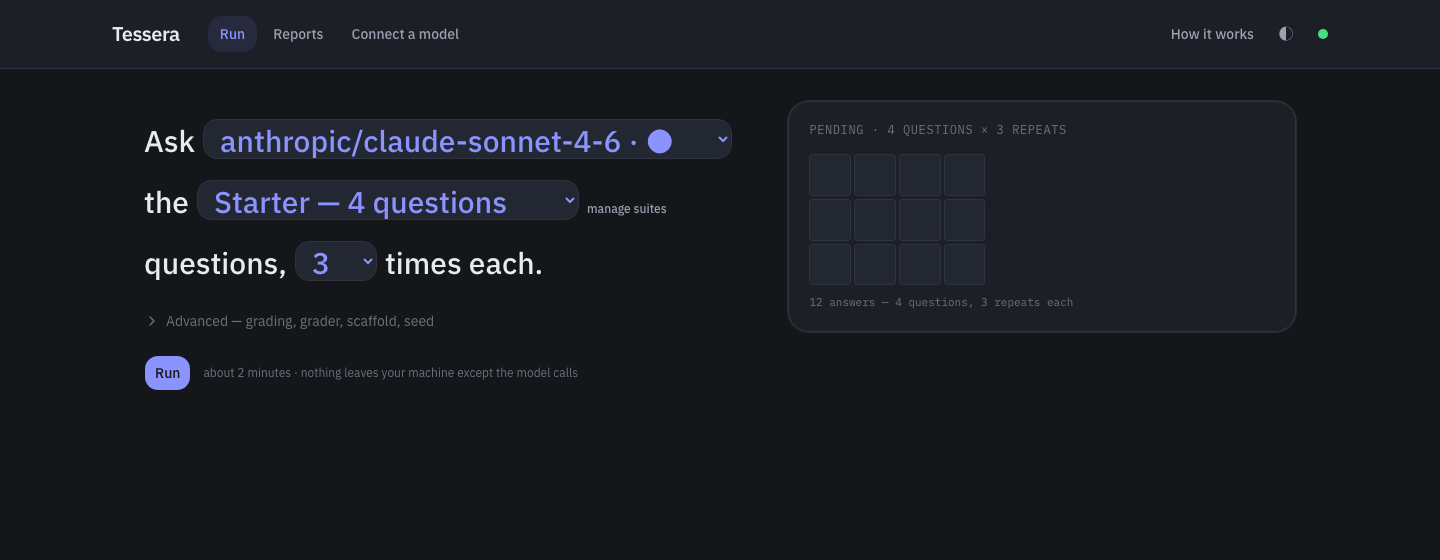
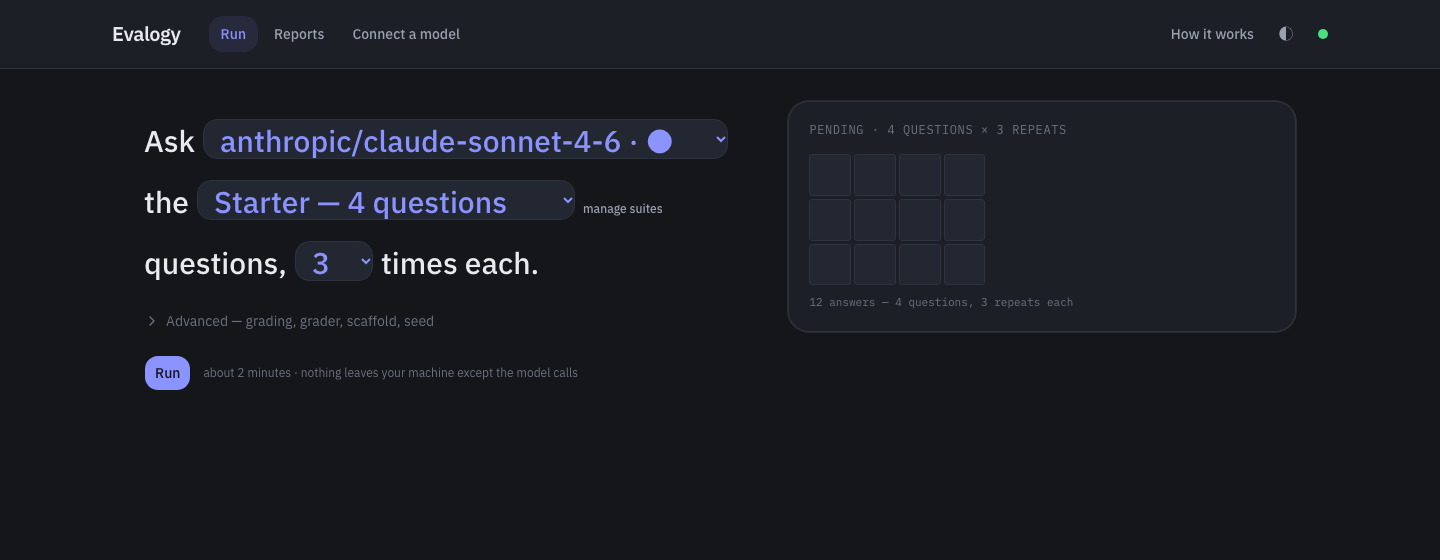
docs: retake the three screenshots under the new name (#102)
Taken from the released 0.3.0 wheel with headless Chrome at the sizes of
the images they replace: the first-contact report, the Run view, and the
comparison of first-contact with gpt-4o.

diff --git a/docs/adr/0016-the-project-is-renamed-evalogy.md b/docs/adr/0016-the-project-is-renamed-evalogy.md
@@ -31,6 +31,7 @@ Old logs and stored runs remain readable. New receipts use `evalogy_version`.
 The command reads `EVALOGY_*` settings and uses `~/.evalogy`. It leaves
 `~/.tessera` in place and performs no migration.
 
-Screenshots in `docs/assets` still show the old name. The thesis and earlier
+The screenshots in `docs/assets` were retaken from the 0.3.0 wheel after the release.
+The thesis and earlier
 publications cite Tessera. Their results and provenance remain attributable
 under that name.
